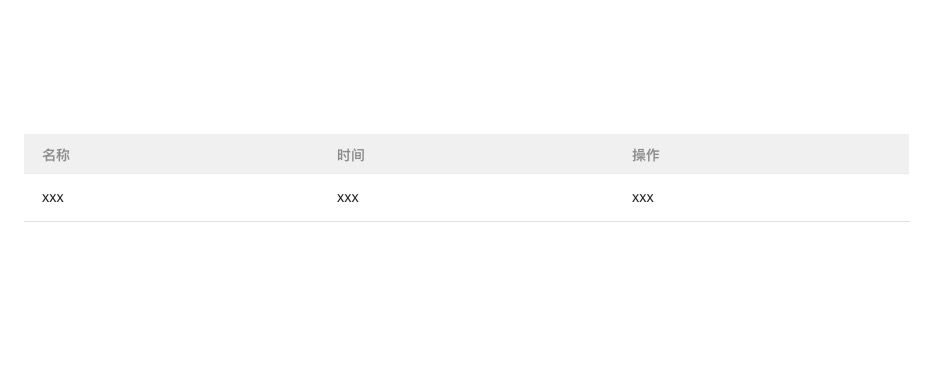
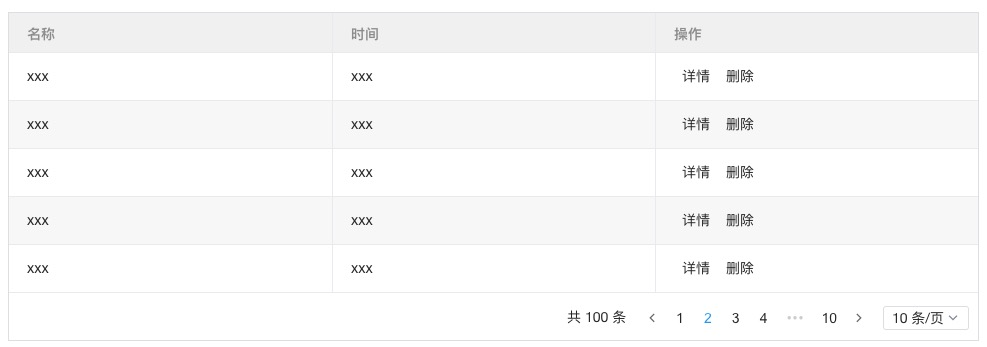
update table style

diff --git a/blocks/DTable/src/index.tsx b/blocks/DTable/src/index.tsx
@@ -1,22 +1,127 @@
 import { Vue, Component } from 'vue-property-decorator'
+import { Message } from 'dcfe-view-design'
+import { CreateElement } from 'vue/types/umd'
 import style from './index.module.scss'
+interface TableParams {
+  pagesize: number;
+  pagenum: number;
+  query?: string | null;
+}
+interface ListItem {
+  name: string;
+  time: string;
+  [propname: string]: any;
+}
 @Component
 
 export default class Block extends Vue {
+  // 列表请求参数
+  private tableParams: TableParams = {
+    pagesize: 10,
+    pagenum: 1,
+    query: null
+  }
+
+  private tableTotal = 100
+
+  // loading状态
+  private tableLoading = false
+
   private tableData: any = [
+    { name: 'xxx', time: 'xxx', action: 'xxx' },
+    { name: 'xxx', time: 'xxx', action: 'xxx' },
+    { name: 'xxx', time: 'xxx', action: 'xxx' },
+    { name: 'xxx', time: 'xxx', action: 'xxx' },
     { name: 'xxx', time: 'xxx', action: 'xxx' }
   ]
 
   private columns: any = [
     { title: '名称', key: 'name' },
     { title: '时间', key: 'time' },
-    { title: '操作', key: 'action' }
+    {
+      title: '操作',
+      render: (h: CreateElement, params: any) => h('div', [
+        h('i-button', {
+          props: {
+            type: 'text',
+            size: 'small'
+          },
+          on: {
+            click: () => {
+              // view detail
+              (this.$Message as Message).info(params.row.name)
+            }
+          }
+        }, '详情'),
+        h('i-button', {
+          props: {
+            type: 'text',
+            size: 'small'
+          },
+          on: {
+            click: () => {
+              // delete
+            }
+          }
+        }, '删除')
+      ])
+    }
   ]
+
+  private created () {
+    this.fetchListData()
+  }
+
+  // 刷新列表。reset重置请求参数
+  private refreshList (reset?: boolean) {
+    if (reset) {
+      this.tableParams.pagenum = 1
+      this.tableParams.query = null
+    }
+    this.fetchListData()
+  }
+
+  // 请求列表数据
+  private fetchListData () {
+    this.tableLoading = true
+    return new Promise((resolve, reject) => {
+      // api fetch
+      setTimeout(() => {
+        this.tableLoading = false
+        if (new Date().valueOf() > 1) {
+          resolve()
+        } else {
+          reject(new Error('fetch list fail'))
+        }
+      }, 3000)
+    })
+  }
+
+  // 分页size改变
+  private pageSizeChangeHandle (pagesize: number) {
+    this.tableParams.pagesize = pagesize
+    this.fetchListData()
+  }
 
   private render () {
     return (
       <div class={style['custom-table-wrapper']}>
-        <i-table data={this.tableData} columns={this.columns}></i-table>
+        <i-table data={this.tableData} columns={this.columns} loading={ this.tableLoading }
+          border stripe>
+          {/** 列表底部分页区 */}
+          <div slot='footer' class={ style['table-footer-cont'] }>
+            <page total={ this.tableTotal }
+              current={ this.tableParams.pagenum }
+              {...{
+                on: {
+                  'update:current': (val: number) => { this.tableParams.pagenum = val },
+                  'on-change': this.fetchListData,
+                  'on-page-size-change': this.pageSizeChangeHandle
+                }
+              }}
+              show-sizer show-total transfer size='small'></page>
+          </div>
+        </i-table>
       </div>
     )
   }

diff --git a/blocks/DTable/src/index.module.scss b/blocks/DTable/src/index.module.scss
@@ -1,3 +1,16 @@
 .custom-table-wrapper {
   color: #262626;
+
+  .table-footer-cont{
+    text-align: right;
+
+  }
 }
+
+:global(.ivu-page-options-sizer){
+  line-height: 1;
+}
+:global(.ivu-page-options){
+  line-height: 1;
+}
+
